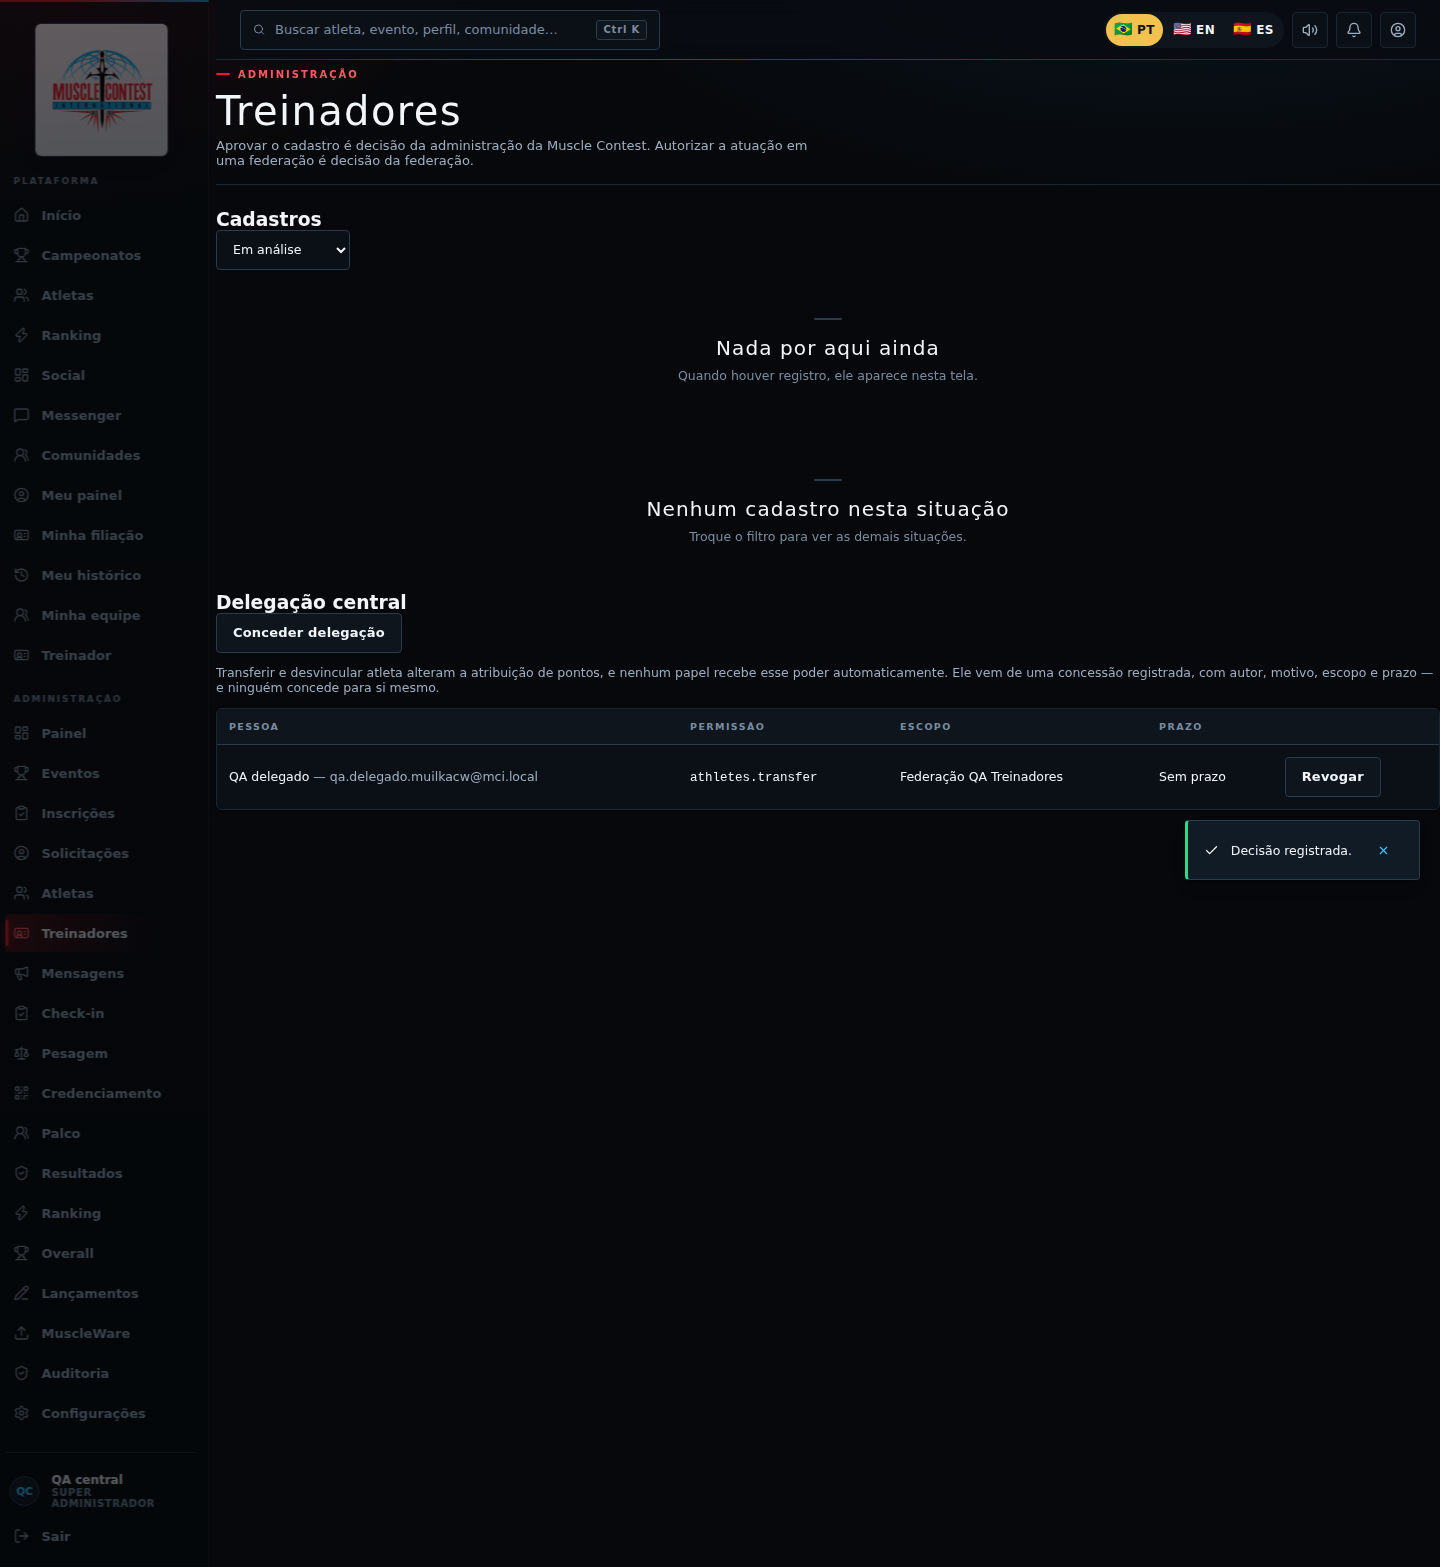
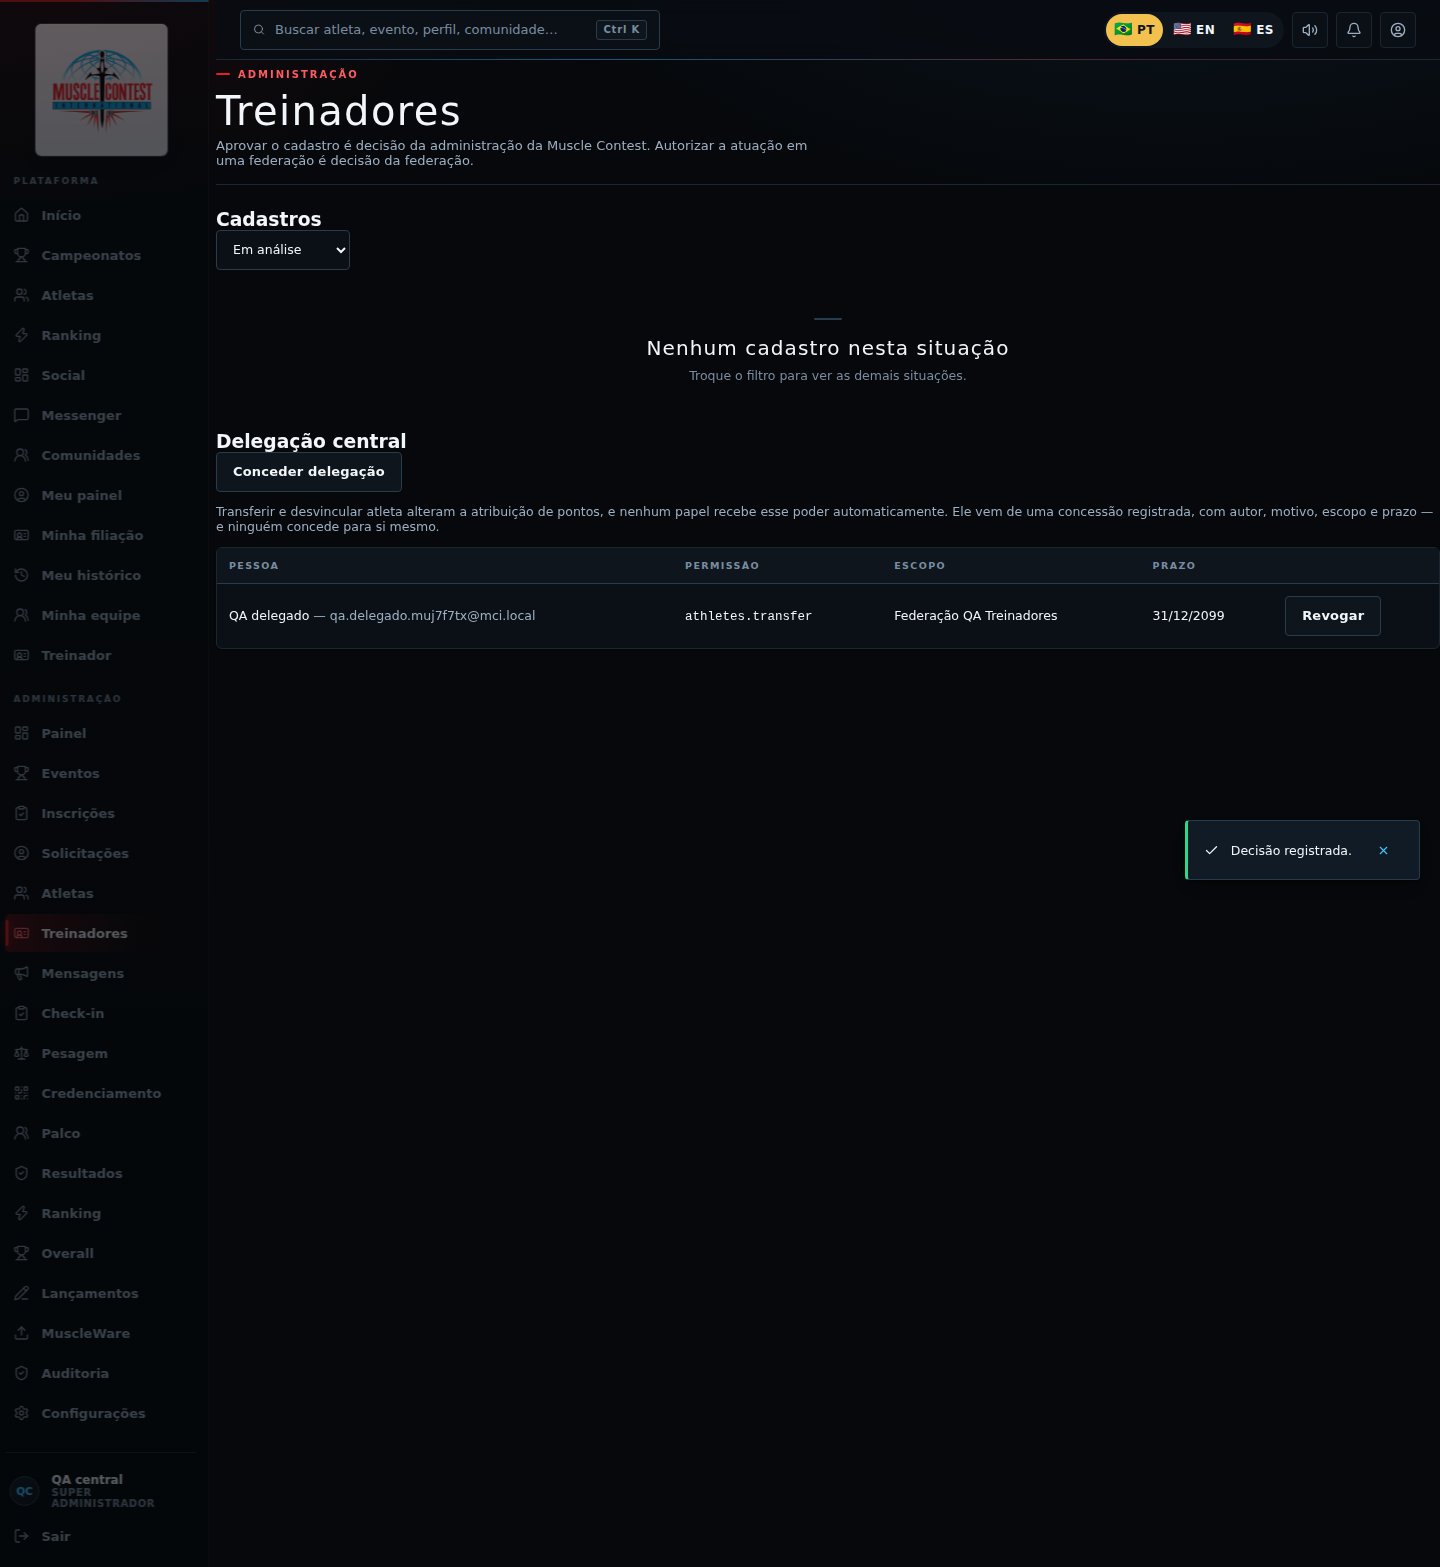
FASE 6: gate visual em oito larguras, desempenho medido e duas correções que o gate achou
O gate visual reprovou na primeira execução, e o que ele acusou eram defeitos de
verdade — os dois criados pela própria correção de A-02.

1. O SEMEADOR DO GATE concedia delegação central sem escopo e sem prazo, que a
   correção de A-02 passou a recusar. Corrigido: passa os dois, como qualquer
   cliente real terá de passar.

2. A RECUSA DE CAMPO OBRIGATÓRIO ERA ININTELIGÍVEL. O gate mostrou a mensagem que
   a API devolvia para `expiresAt` ausente: "Invalid input: expected date, received
   Date". A causa é `z.coerce.date()` — a coerção roda ANTES da conferência, e
   `new Date(undefined)` produz data inválida, então o campo nunca é reportado como
   ausente. `dataIsoObrigatoria` confere o valor CRU primeiro (texto ou Date) e só
   então converte: campo ausente, nulo, vazio ou malformado recebe a mesma
   instrução — "Informe a data no formato ISO, por exemplo 2026-12-31".

   Isso não é cosmético. A recusa de um campo obrigatório é a primeira coisa que
   quem administra a plataforma vai ler, e uma mensagem que fala de tipo interno
   não diz a ninguém o que fazer.

3. O RELATO DE EVIDÊNCIA DEFASADA (A-07) apontava `evidencias.json` como sendo de
   rodada anterior — o arquivo é escrito logo DEPOIS da comparação, então no
   instante do teste ele ainda carregava a data antiga. Excluído da conferência,
   com a razão escrita: acusar o arquivo que está nascendo não informa nada.

RESULTADO DO GATE, na execução com as correções: 218 PASS, 0 FAIL, 0 NOT TESTED,
[…]

diff --git a/src/utils/schemas.js b/src/utils/schemas.js
@@ -10,6 +10,23 @@ const texto = (min, max) => z.string().trim().min(min).max(max);
 const opcional = schema => schema.optional().nullable();
 const dataIso = z.coerce.date();
 
+// DATA OBRIGATÓRIA, COM RECUSA LEGÍVEL.
+//
+// `z.coerce.date()` não serve como campo obrigatório: a coerção roda ANTES da
+// conferência, e `new Date(undefined)` produz uma data inválida. O resultado,
+// medido, é a recusa "Invalid input: expected date, received Date" para um campo
+// que simplesmente não foi enviado — mensagem que não diz a ninguém o que fazer.
+//
+// Aqui o valor CRU é conferido primeiro (texto ou Date), e só então convertido.
+// Campo ausente, nulo, vazio ou malformado recebe a mesma instrução, que é o que
+// quem está preenchendo precisa ler.
+const dataIsoObrigatoria = z
+  .union([z.string().trim(), z.date()], { error: 'Informe a data no formato ISO, por exemplo 2026-12-31' })
+  .transform(valor => (valor instanceof Date ? valor : new Date(valor)))
+  .refine(valor => !Number.isNaN(valor.getTime()), {
+    error: 'Informe a data no formato ISO, por exemplo 2026-12-31'
+  });
+
 // Booleano vindo de formulário ou querystring chega como TEXTO, e `z.coerce
 // .boolean()` aplica `Boolean(...)`: a string 'false' vira `true`, e com ela um
 // documento marcado como privado era gravado como público. Aqui a palavra vale
@@ -768,7 +785,7 @@ const centralGrantCreate = z.object({
   permission: texto(3, 60),
   organizationId: id,
   reason: texto(3, 500),
-  expiresAt: dataIso
+  expiresAt: dataIsoObrigatoria
 });
 const centralGrantRevoke = z.object({ reason: texto(3, 500) });
 const centralGrantQuery = paginacao.extend({
